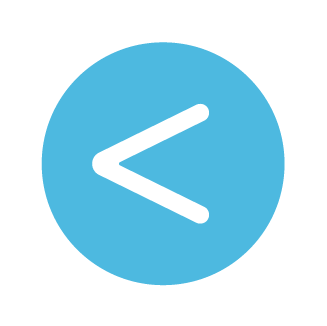
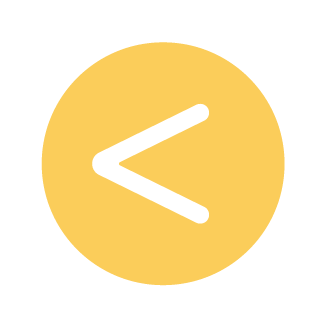
Change color of widget arrows

diff --git a/assets/css/style.css b/assets/css/style.css
@@ -2039,12 +2039,13 @@ code {
 .glide__arrow {
   width: 6em;
   opacity: 0.5;
-  position: static;
-  border: none;
+}
+
+.glide__arrow--left{
+  left: 150px
 }
 
 /* &#{$se}arrow {
-  position: static;
-  border: none;
+  left: 50%
   /* border-radius: 4px; */
 } */
